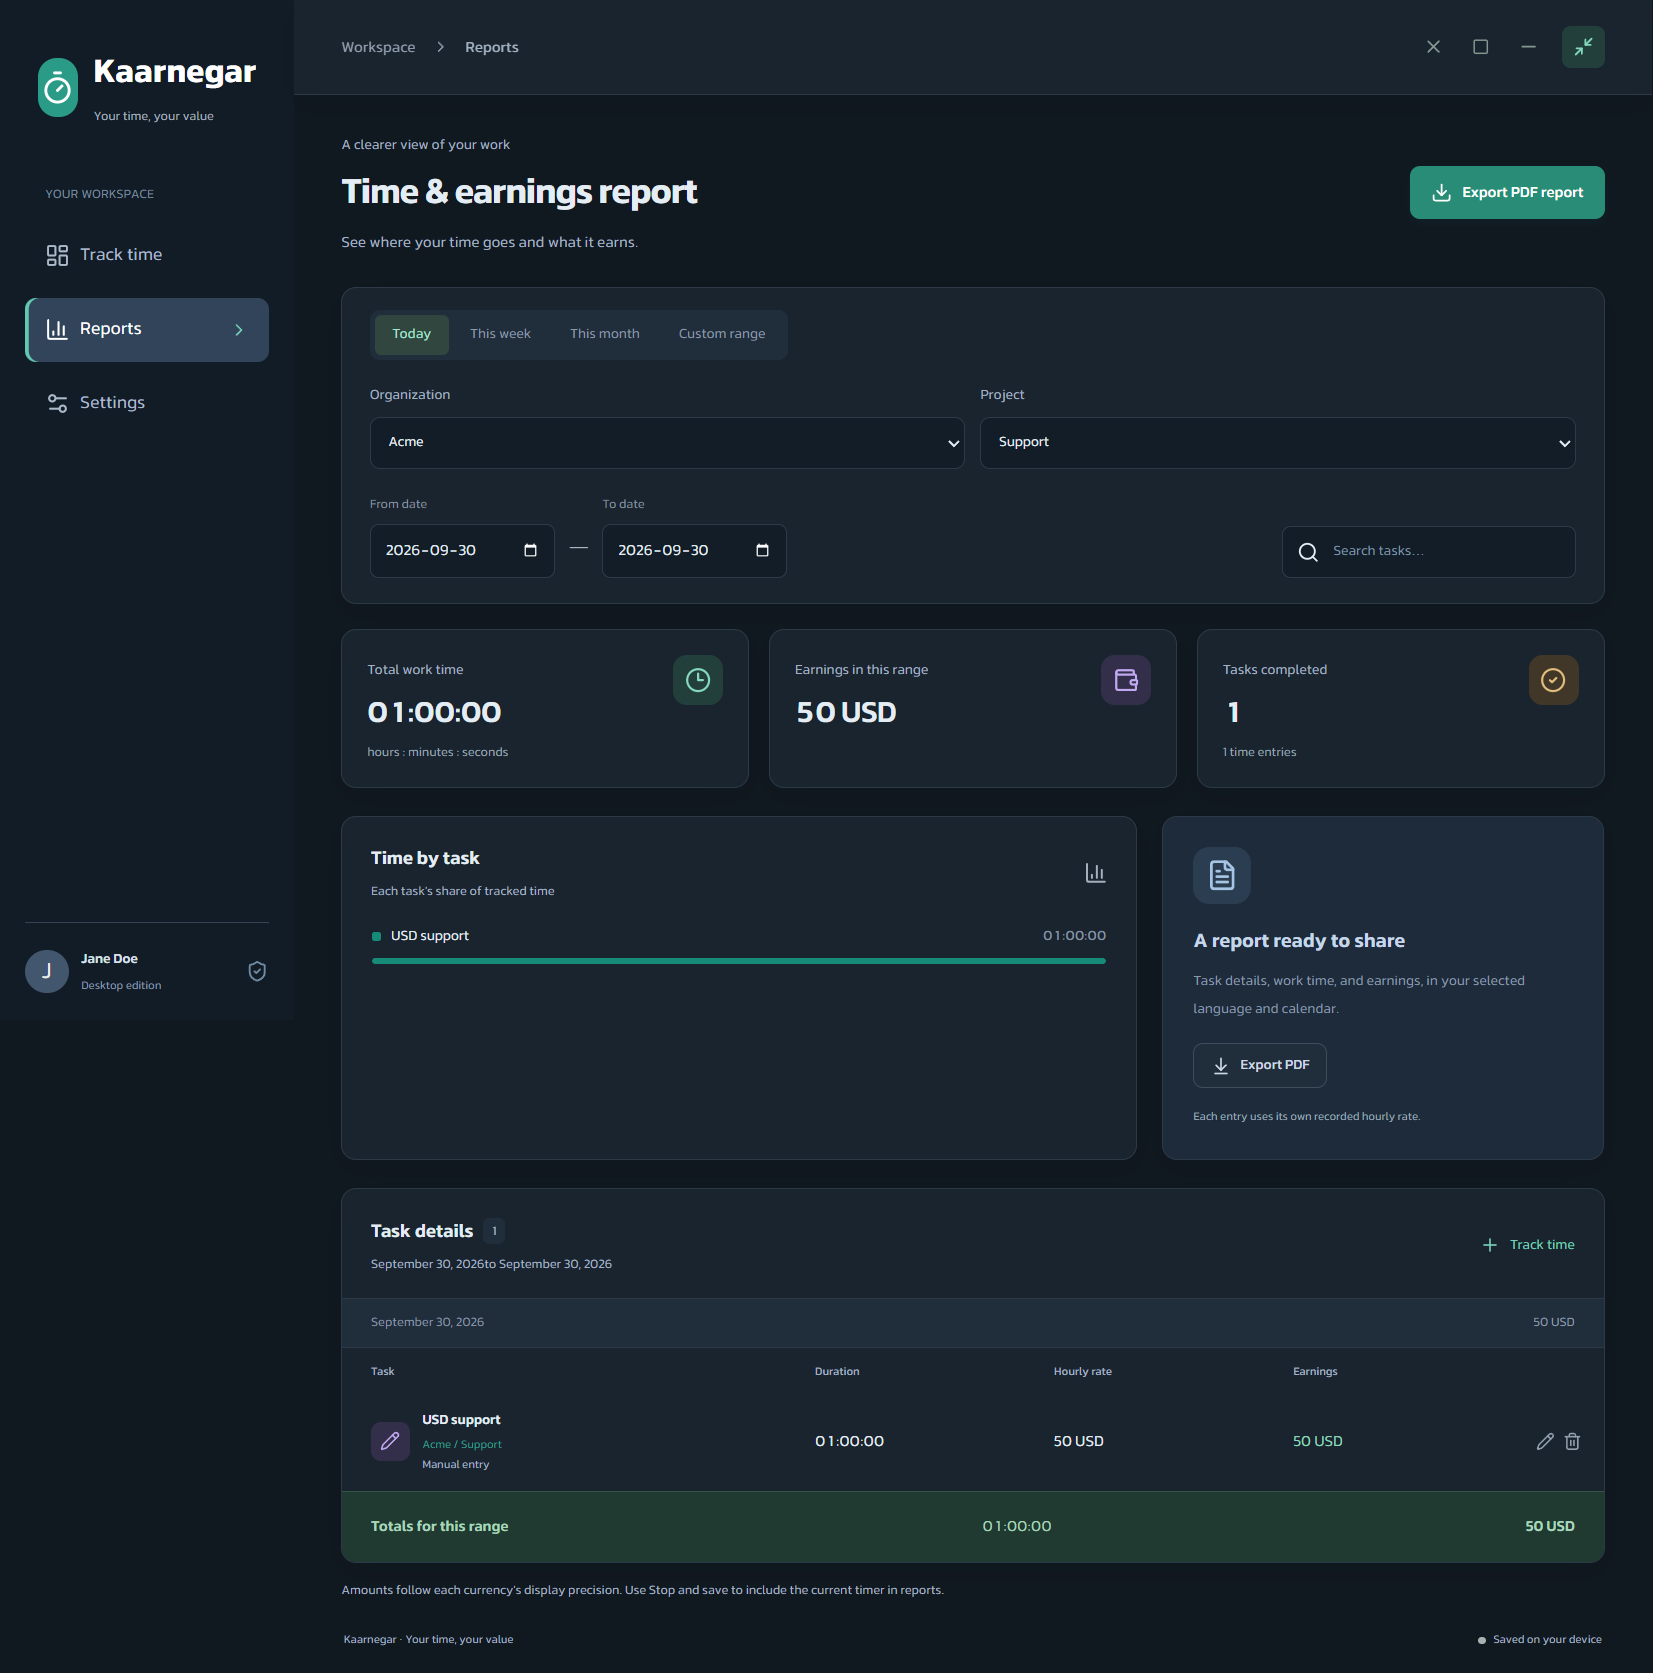
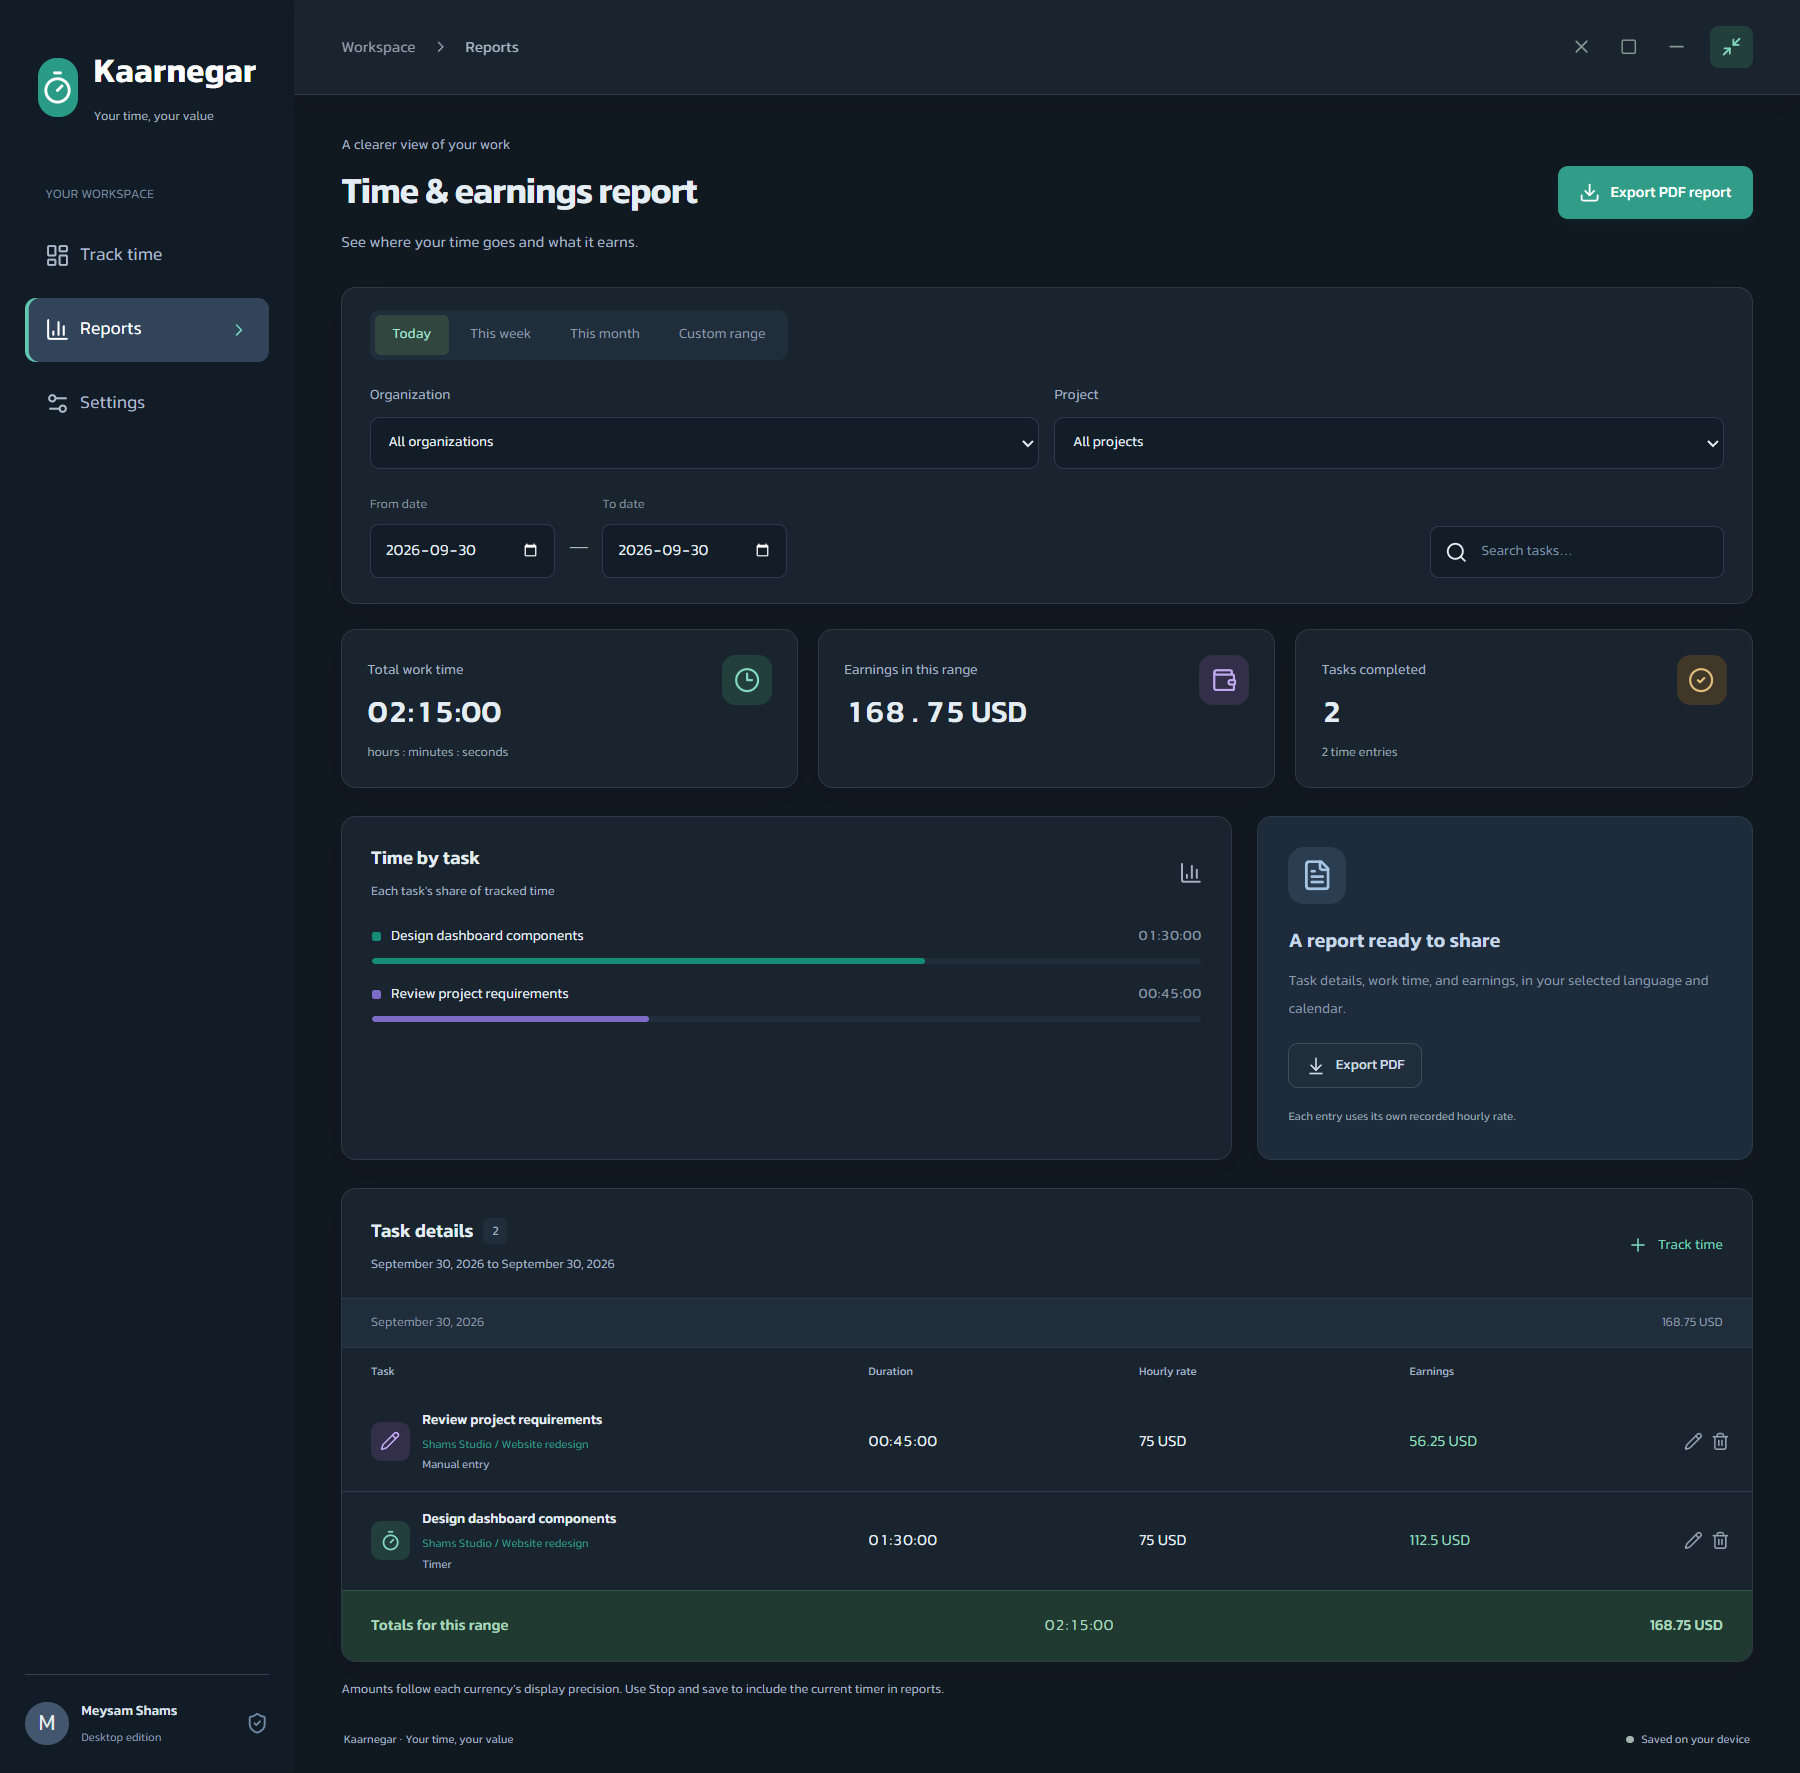
docs: refresh README screenshots and demo profile names

diff --git a/README.md b/README.md
@@ -7,7 +7,7 @@
 <p align="center">An offline Windows time tracker for organizations and projects, with Persian and English interfaces, local reports, and multiple currencies.</p>
 <p align="center"><a href="../../releases">Download for Windows</a> &middot; <a href="#getting-started">Getting started</a> &middot; <a href="#development">Development</a></p>
 
-![Kaarnegar dashboard](docs/dashboard.png)
+![Kaarnegar English dashboard in light mode](docs/dashboard.png)
 
 Kaarnegar keeps everyday time tracking simple: name your task, start the timer, and turn your saved work into a clear report. Everything stays on your computer. No account, server, or internet connection is required to use the app.
 
@@ -28,6 +28,13 @@ Kaarnegar keeps everyday time tracking simple: name your task, start the timer, 
 | Backup and restore | Export your work history to JSON and restore it on another computer. |
 
 English is the default language. The application also supports Persian. Change the language in Settings; your selection is saved for the next launch.
+
+<details>
+<summary>English workspace and profile settings</summary>
+
+![English workspace and profile settings](docs/settings.png)
+
+</details>
 
 ## Getting started
 
@@ -50,7 +57,7 @@ Use the widget button in the window header to switch between the full dashboard 
 
 Choose **Dark** in Settings for a calmer workspace, or **System** to follow Windows. The same theme carries through the dashboard, reports, calendar, dialogs, and compact timer.
 
-![Kaarnegar dark theme](docs/dark-dashboard.png)
+![Kaarnegar English dashboard in dark mode](docs/dark-dashboard.png)
 
 <p align="center"><img src="docs/widget-dark.png" width="380" alt="Dark compact timer" /></p>
 
@@ -71,9 +78,7 @@ Choose **Quit app** from the tray menu to exit completely. The timer is saved an
 
 ## Reports
 
-![English report filtered by organization and project](docs/english-reports.png)
-
-![Time and earnings reports](docs/reports.png)
+![English time and earnings reports](docs/english-reports.png)
 
 Reports combine saved task details, organization/project assignments, total time, currency totals, and a chart of time spent per task. Date, search, organization, and project filters also apply to the exported PDF. Filenames use Jalali dates in Persian and Gregorian dates in English. The bundled Arad font is embedded in exported PDFs, so text renders without installing fonts on the recipient's computer.
 
